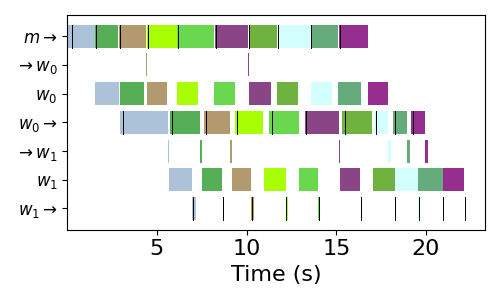
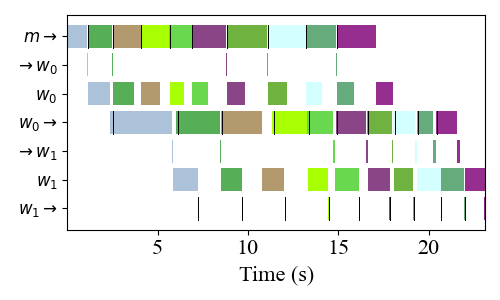
update for exp with three algs

diff --git a/pipeline_execution_result/pipeline_execution_result.py b/pipeline_execution_result/pipeline_execution_result.py
@@ -238,7 +238,7 @@ if __name__ == '__main__':
     XLIM = None  # 横轴的最大时间, None为matplotlib自动决定, 非None时最小时间也会设置为0
     LOCAL_DIR = 'lbc2'  # l模式下, 本地目录路径
     REMOTE_CFG = 'device.yml'  # 远程服务器的配置文件
-    folder_name = 'pdp_alexnet'
+    folder_name = 'pdp_inceptionv3'
 
     # TCZIP = './pipeline_execution_result/itg_alexnet.zip'  # 从zip文件中读取tc文件
     # g_mi_evts, g_w_i_evts = read_from_zip(TCZIP)
